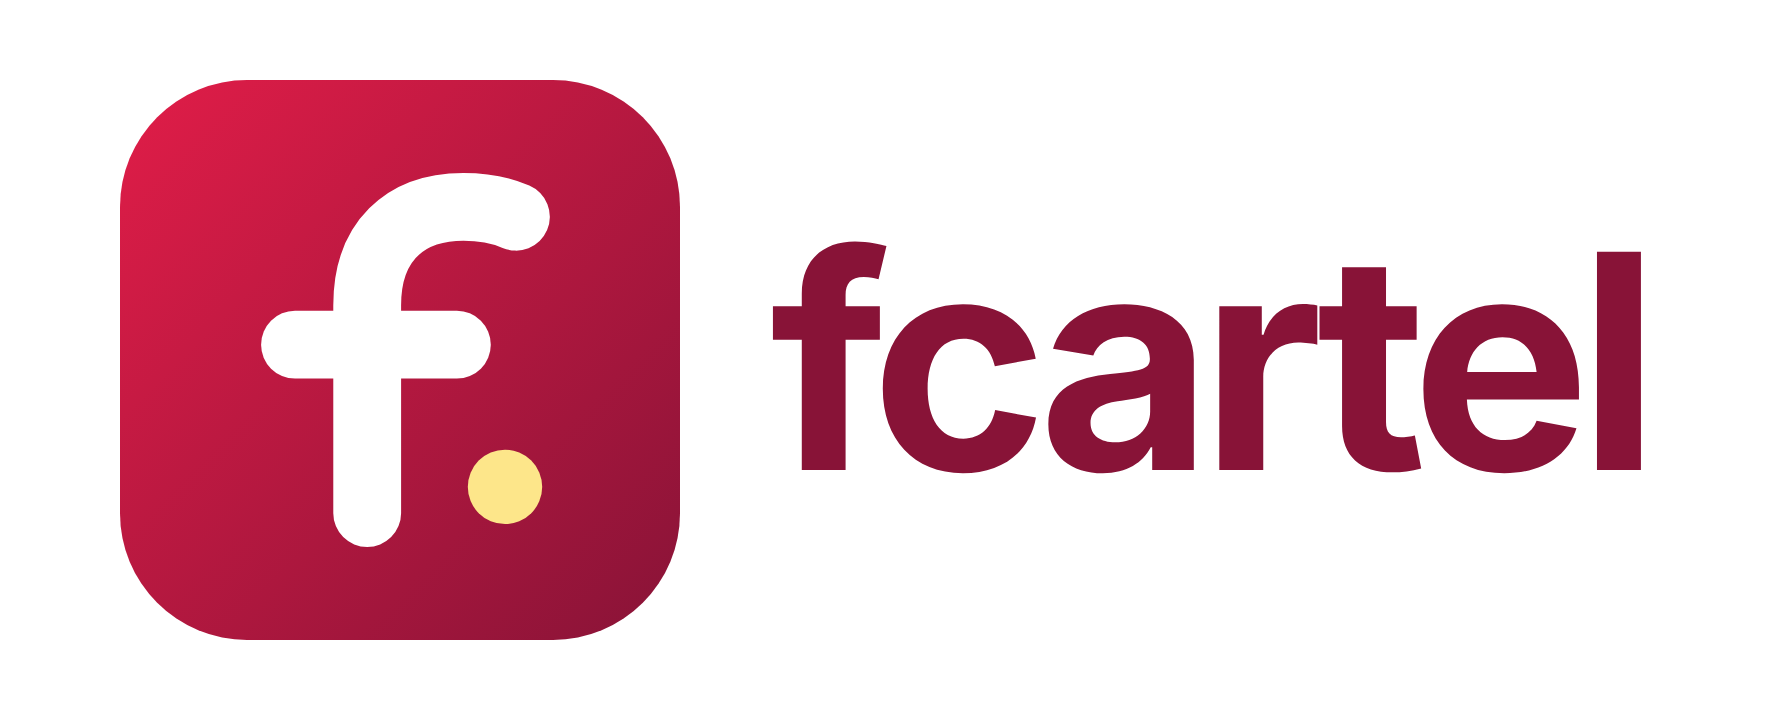
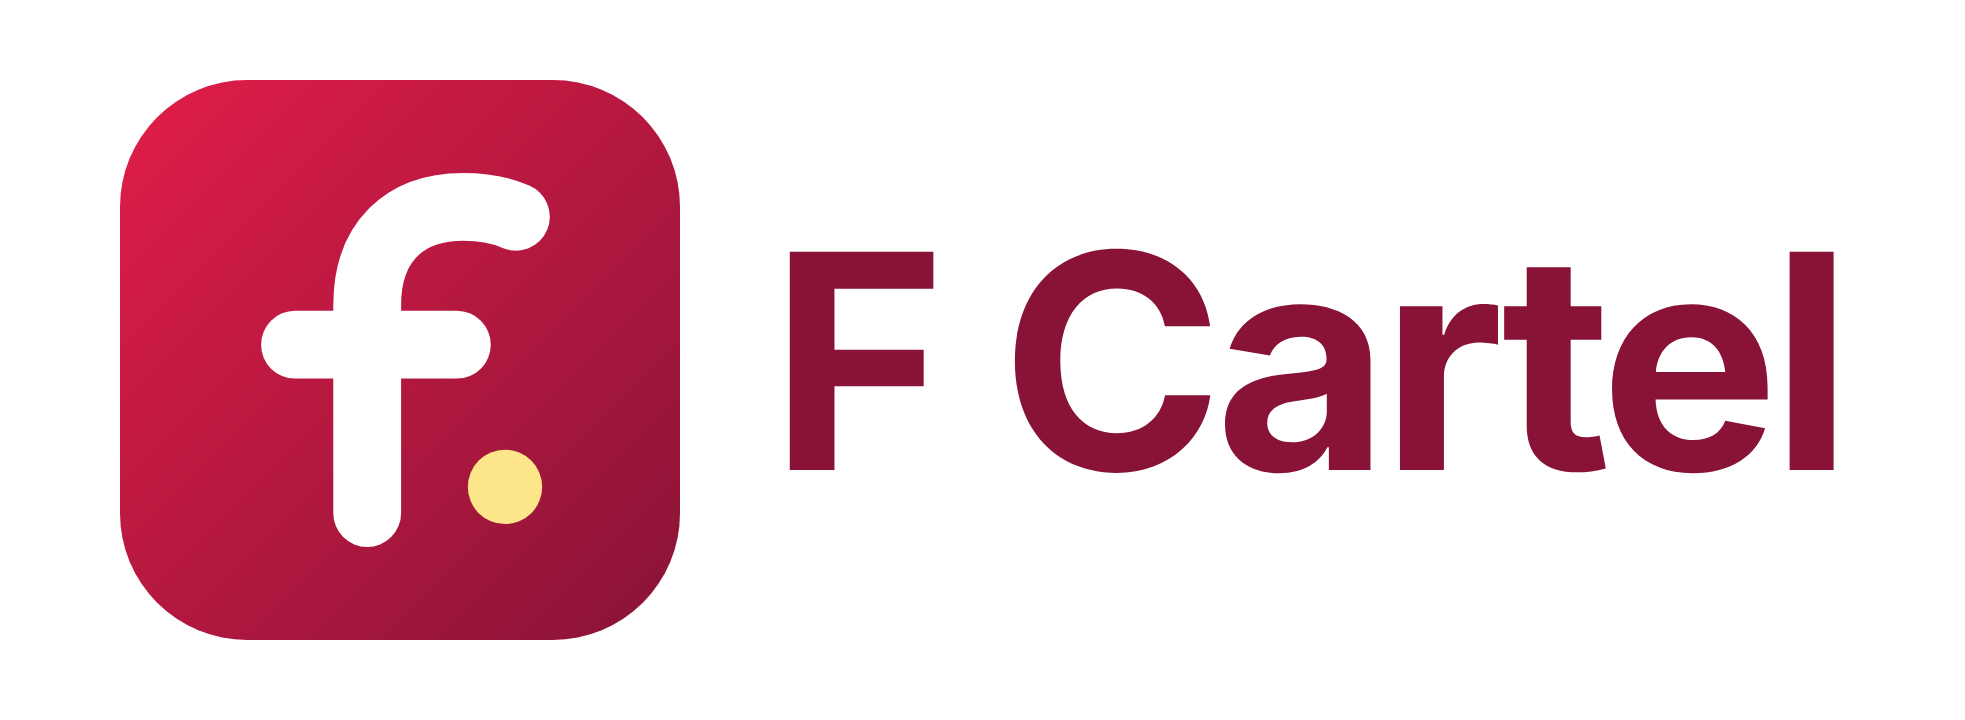
Use "F Cartel" as the product's display name
Claude-Session: https://claude.ai/code/session_01LhsLUrNMoi5VJyoMNGe75t

diff --git a/apps/web/app/docs/compliance-india/page.tsx b/apps/web/app/docs/compliance-india/page.tsx
@@ -2,8 +2,8 @@ import type { Metadata } from "next";
 import { DocList, DocPage, DocSection } from "@/components/marketing/doc-page";
 
 export const metadata: Metadata = {
-  title: "India compliance notes — fcartel",
-  description: "How fcartel's architecture relates to Indian data-protection, IT, and consumer-protection law.",
+  title: "India compliance notes — F Cartel",
+  description: "How F Cartel's architecture relates to Indian data-protection, IT, and consumer-protection law.",
 };
 
 export default function ComplianceIndiaPage() {
@@ -11,7 +11,7 @@ export default function ComplianceIndiaPage() {
     <DocPage title="India compliance notes" updated="15 August 2026">
       <DocSection heading="This is not legal advice">
         <p>
-          This page explains how fcartel is built with reference to
+          This page explains how F Cartel is built with reference to
           Indian law, so a restaurant operator deploying it can have an
           informed conversation with their own advisor — it is not a legal
           opinion, a certification, or a substitute for review by a
@@ -24,9 +24,9 @@ export default function ComplianceIndiaPage() {
 
       <DocSection heading="Who is the &ldquo;data fiduciary&rdquo;?">
         <p>
-          fcartel is self-hosted software, not a cloud service Nodedr
+          F Cartel is self-hosted software, not a cloud service Nodedr
           Infotech operates on your behalf. When a restaurant deploys
-          fcartel on its own server, <strong className="text-foreground">
+          F Cartel on its own server, <strong className="text-foreground">
           that restaurant is the Data Fiduciary</strong> under the Digital
           Personal Data Protection Act, 2023 (DPDP Act) for the customer and
           staff personal data it collects through the app — the same way a
@@ -43,7 +43,7 @@ export default function ComplianceIndiaPage() {
           rights to access, correct, and erase their personal data, and
           requires Data Fiduciaries to collect only what&rsquo;s needed for
           a stated purpose, retain it no longer than necessary, and provide
-          a grievance-redressal channel. fcartel&rsquo;s data model and
+          a grievance-redressal channel. F Cartel&rsquo;s data model and
           controls that a deploying restaurant can use to meet these:
         </p>
         <DocList
@@ -51,11 +51,11 @@ export default function ComplianceIndiaPage() {
             "Customer records (name, phone, order/visit history, loyalty points) are editable and deletable by any staff member with the customers.manage permission — supporting correction and erasure requests.",
             "Only the data fields actually used by POS/CRM/loyalty features are collected — no speculative profile fields.",
             "Role-based access control restricts who on staff can view customer contact details and order history, supporting a purpose-limitation and least-privilege posture.",
-            "Every table/order/session is scoped to the restaurant that created it — verified during a security audit that one restaurant's staff cannot query another restaurant's customer data, relevant if you run fcartel for multiple outlets on shared infrastructure.",
+            "Every table/order/session is scoped to the restaurant that created it — verified during a security audit that one restaurant's staff cannot query another restaurant's customer data, relevant if you run F Cartel for multiple outlets on shared infrastructure.",
           ]}
         />
         <p>
-          What fcartel does <em>not</em> provide out of the box: a
+          What F Cartel does <em>not</em> provide out of the box: a
           built-in consent-capture flow, an automated data-retention/deletion
           schedule, or a hosted grievance-officer contact form — these are
           organizational obligations the deploying restaurant (as Data
@@ -97,14 +97,14 @@ export default function ComplianceIndiaPage() {
 
       <DocSection heading="GST invoicing (CGST Rules, Rule 46)">
         <p>
-          Receipts generated by fcartel display the branch&rsquo;s
+          Receipts generated by F Cartel display the branch&rsquo;s
           GSTIN (when configured in Settings), an itemized CGST/SGST
           breakup, and a per-order invoice/order number. Whether your
           specific invoice numbering and layout fully satisfies Rule 46 of
           the CGST Rules, 2017 for your registration and turnover bracket
           (e.g. sequential numbering per financial year, HSN/SAC code
           requirements at your turnover level) is something to confirm with
-          your chartered accountant before relying on fcartel receipts
+          your chartered accountant before relying on F Cartel receipts
           as your sole tax-invoice record — this software generates a
           receipt in the right shape, it does not itself certify GST
           compliance for your specific registration.

diff --git a/apps/web/app/docs/api/page.tsx b/apps/web/app/docs/api/page.tsx
@@ -2,9 +2,9 @@ import type { Metadata } from "next";
 import { DocList, DocPage, DocSection } from "@/components/marketing/doc-page";
 
 export const metadata: Metadata = {
-  title: "API & MCP — fcartel",
+  title: "API & MCP — F Cartel",
   description:
-    "Connect an AI client via MCP, or use fcartel as a backend for your own website: browse the menu, place orders, and book tables through a scoped API key.",
+    "Connect an AI client via MCP, or use F Cartel as a backend for your own website: browse the menu, place orders, and book tables through a scoped API key.",
 };
 
 function Code({ children }: { children: string }) {
@@ -20,7 +20,7 @@ export default function ApiDocsPage() {
     <DocPage title="API &amp; MCP" updated="20 August 2026">
       <DocSection heading="Two ways to connect">
         <p>
-          fcartel exposes two separate integrations, each with its own kind of API key, both managed from{" "}
+          F Cartel exposes two separate integrations, each with its own kind of API key, both managed from{" "}
           <strong className="text-foreground">Settings &gt; API Keys</strong> once you&rsquo;re signed in:
         </p>
         <DocList
@@ -34,7 +34,7 @@ export default function ApiDocsPage() {
             </>,
             <>
               <strong className="text-foreground">Integration API</strong> — a plain REST API for your own
-              website&rsquo;s backend to use fcartel directly: browse the menu, place orders, and book tables for
+              website&rsquo;s backend to use F Cartel directly: browse the menu, place orders, and book tables for
               a location you choose. Not tied to any staff account — you grant it only the permissions it needs.
             </>,
           ]}
@@ -65,7 +65,7 @@ export default function ApiDocsPage() {
       <DocSection heading="Integration API">
         <p>
           Base URL: <code className="rounded bg-card px-1.5 py-0.5 text-foreground">https://your-domain/api/v1/integrations</code>. This
-          is meant for server-to-server calls — your website&rsquo;s own backend calling fcartel, not embedding
+          is meant for server-to-server calls — your website&rsquo;s own backend calling F Cartel, not embedding
           the key in browser JavaScript.
         </p>
         <Code>{`GET  /locations                              (scope: locations:read)

diff --git a/apps/web/app/docs/page.tsx b/apps/web/app/docs/page.tsx
@@ -4,25 +4,25 @@ import { DocPage, DocSection } from "@/components/marketing/doc-page";
 import { downloadHref } from "@/lib/downloads";
 
 export const metadata: Metadata = {
-  title: "Documentation — fcartel",
-  description: "API & MCP, accessibility, and India compliance docs for a self-hosted fcartel instance.",
+  title: "Documentation — F Cartel",
+  description: "API & MCP, accessibility, and India compliance docs for a self-hosted F Cartel instance.",
 };
 
 const docs = [
   {
     href: "/docs/api",
     title: "API & MCP",
-    description: "Connect an AI client via MCP, or use fcartel as a backend for your own website.",
+    description: "Connect an AI client via MCP, or use F Cartel as a backend for your own website.",
   },
   {
     href: "/docs/accessibility",
     title: "Accessibility",
-    description: "How fcartel is built to work with keyboards, screen readers, and reduced motion.",
+    description: "How F Cartel is built to work with keyboards, screen readers, and reduced motion.",
   },
   {
     href: "/docs/compliance-india",
     title: "India compliance",
-    description: "GST, receipts, and data-residency notes for running fcartel in India.",
+    description: "GST, receipts, and data-residency notes for running F Cartel in India.",
   },
 ];
 

diff --git a/apps/web/components/marketing/branding-section.tsx b/apps/web/components/marketing/branding-section.tsx
@@ -15,7 +15,7 @@ const steps = [
   {
     icon: LayoutDashboard,
     title: "Your brand leads every screen",
-    description: "Your logo and name sit at the top of the dashboard, POS, and login — fcartel stays a small credit line.",
+    description: "Your logo and name sit at the top of the dashboard, POS, and login — F Cartel stays a small credit line.",
   },
   {
     icon: Receipt,
@@ -52,7 +52,7 @@ function BrandedSidebarMock() {
         ))}
       </div>
       <div className="border-t border-sidebar-border px-5 py-3 text-xs text-sidebar-foreground/60">
-        Powered by <span className="font-semibold">fcartel</span>
+        Powered by <span className="font-semibold">F Cartel</span>
       </div>
     </div>
   );
@@ -69,7 +69,7 @@ export function BrandingSection() {
             </h2>
             <p className="mt-4 text-lg text-muted-foreground">
               Your staff should see your restaurant when they clock in, not a
-              software vendor. fcartel is white-label from the first screen.
+              software vendor. F Cartel is white-label from the first screen.
             </p>
           </Reveal>
           <RevealGroup className="mt-10 grid gap-6 sm:grid-cols-2">

diff --git a/apps/web/app/docs/accessibility/page.tsx b/apps/web/app/docs/accessibility/page.tsx
@@ -2,8 +2,8 @@ import type { Metadata } from "next";
 import { DocList, DocPage, DocSection } from "@/components/marketing/doc-page";
 
 export const metadata: Metadata = {
-  title: "Accessibility statement — fcartel",
-  description: "fcartel's accessibility conformance target, testing methodology, and known gaps.",
+  title: "Accessibility statement — F Cartel",
+  description: "F Cartel's accessibility conformance target, testing methodology, and known gaps.",
 };
 
 export default function AccessibilityPage() {
@@ -11,7 +11,7 @@ export default function AccessibilityPage() {
     <DocPage title="Accessibility statement" updated="15 August 2026">
       <DocSection heading="Our target">
         <p>
-          fcartel targets{" "}
+          F Cartel targets{" "}
           <strong className="text-foreground">WCAG 2.1 Level AA</strong> across
           this marketing site and the product application (POS, dashboard,
           kitchen display, settings). This is the standard referenced by

diff --git a/apps/web/components/layout/app-shell.tsx b/apps/web/components/layout/app-shell.tsx
@@ -16,12 +16,12 @@ import { MobileBottomNav } from "./mobile-bottom-nav";
 import { SidebarNav } from "./sidebar-nav";
 import { UserMenu } from "./user-menu";
 
-// The restaurant's own logo + name lead the sidebar header — fcartel is
+// The restaurant's own logo + name lead the sidebar header — F Cartel is
 // white-label, so the operator's branding takes the prime spot an operator
-// actually looks at. The fcartel mark moves to a small "Powered by" credit
+// actually looks at. The F Cartel mark moves to a small "Powered by" credit
 // at the bottom (BrandFooter) instead of competing with it up here. A
 // restaurant that hasn't uploaded a logo yet gets a monogram of its name
-// rather than the fcartel mark; the product mark only shows while settings
+// rather than the F Cartel mark; the product mark only shows while settings
 // are still loading.
 function RestaurantBrand() {
   const { data: restaurant } = useRestaurantBranding();

diff --git a/apps/web/lib/brand.ts b/apps/web/lib/brand.ts
@@ -3,10 +3,10 @@
 // always takes priority inside the app; this is the fallback and the mark
 // used on public pages (landing, login, signup, docs).
 export const BRAND = {
-  name: "fcartel",
+  name: "F Cartel",
   tagline: "Run your restaurant under your own brand.",
   description:
-    "fcartel is restaurant management software — POS, kitchen display, tables, reservations, inventory, and CRM — that puts your restaurant's name and logo front and center.",
+    "F Cartel is restaurant management software — POS, kitchen display, tables, reservations, inventory, and CRM — that puts your restaurant's name and logo front and center.",
   logoSrc: "/logo.png",
   // Optional: shown as "Contact support" in the app sidebar when set.
   supportUrl: process.env.NEXT_PUBLIC_SUPPORT_URL || null,

diff --git a/apps/backend/src/main.ts b/apps/backend/src/main.ts
@@ -123,8 +123,8 @@ async function bootstrap() {
     process.env.ENABLE_SWAGGER === 'true'
   ) {
     const config = new DocumentBuilder()
-      .setTitle('fcartel API')
-      .setDescription('REST API for the fcartel management system')
+      .setTitle('F Cartel API')
+      .setDescription('REST API for the F Cartel management system')
       .setVersion('1.0')
       .addCookieAuth('nodedr_session')
       .build();
@@ -135,7 +135,7 @@ async function bootstrap() {
   const port = process.env.PORT ?? 4000;
   await app.listen(port);
   console.log(
-    `fcartel API listening on :${port} (docs at /api/docs)`,
+    `F Cartel API listening on :${port} (docs at /api/docs)`,
   );
 }
 void bootstrap();

diff --git a/apps/web/components/settings/printer-diagnostics-card.tsx b/apps/web/components/settings/printer-diagnostics-card.tsx
@@ -39,7 +39,7 @@ export function PrinterDiagnosticsCard() {
           <h2 className="text-sm font-semibold text-foreground">Thermal printer (receipts &amp; kitchen tickets)</h2>
           <p className="text-sm text-muted-foreground">
             Native ESC/POS printing, independent of the browser print dialog. The printer must be reachable
-            from the machine running fcartel: USB on a Linux host, or a network printer on port 9100.
+            from the machine running F Cartel: USB on a Linux host, or a network printer on port 9100.
           </p>
         </div>
         <Button variant="ghost" size="icon" onClick={() => refetch()} disabled={isFetching}>

diff --git a/apps/web/app/(dashboard)/settings/verifactu/page.tsx b/apps/web/app/(dashboard)/settings/verifactu/page.tsx
@@ -54,7 +54,7 @@ function SettingsForm({ branchId, s }: { branchId: string; s: VerifactuSettings 
       </div>
 
       <div role="note" className="rounded-xl border border-border bg-muted/40 p-4 text-sm">
-        <strong>Implemented, not certified.</strong> fcartel has not been run against the live AEAT portal and NODEDR has not issued
+        <strong>Implemented, not certified.</strong> F Cartel has not been run against the live AEAT portal and NODEDR has not issued
         its Declaración Responsable. Test with AEAT&rsquo;s pre-production portal and ask your gestor before relying on it.
       </div>
 

diff --git a/apps/web/components/marketing/hero.tsx b/apps/web/components/marketing/hero.tsx
@@ -48,7 +48,7 @@ export function Hero() {
           transition={{ duration: 0.4, delay: 0.35, ease: [0.22, 1, 0.36, 1] }}
           className="mt-6 max-w-2xl text-balance text-lg text-muted-foreground sm:text-xl"
         >
-          fcartel runs your POS, kitchen display, tables, reservations,
+          F Cartel runs your POS, kitchen display, tables, reservations,
           inventory, and CRM in one place — and puts your restaurant&rsquo;s
           name and logo on every screen your team works in. Sign up, upload
           your logo, and start taking orders in minutes.

diff --git a/apps/web/app/(dashboard)/settings/api-keys/page.tsx b/apps/web/app/(dashboard)/settings/api-keys/page.tsx
@@ -153,7 +153,7 @@ function IntegrationApiKeysCard() {
         <div>
           <h2 className="text-[18px] font-medium text-foreground">Integration API keys</h2>
           <p className="text-sm text-muted-foreground">
-            Credentials for an external website or system to use fcartel as a backend — browse the menu, place
+            Credentials for an external website or system to use F Cartel as a backend — browse the menu, place
             orders, and book tables for a location. Not tied to any staff account.
           </p>
         </div>
